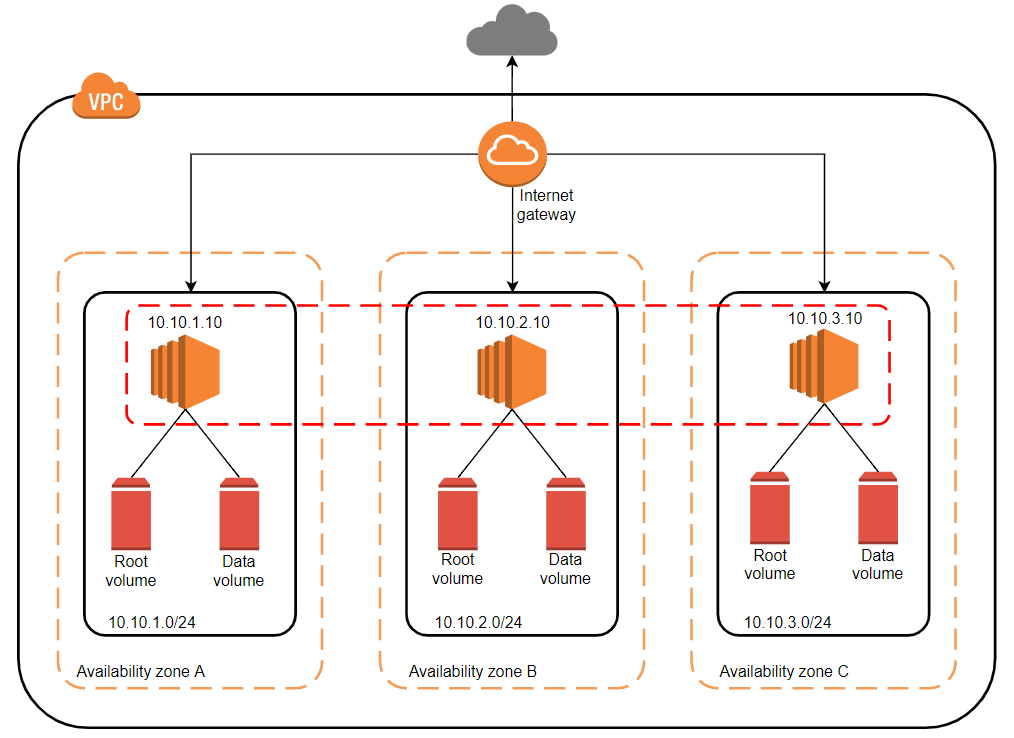
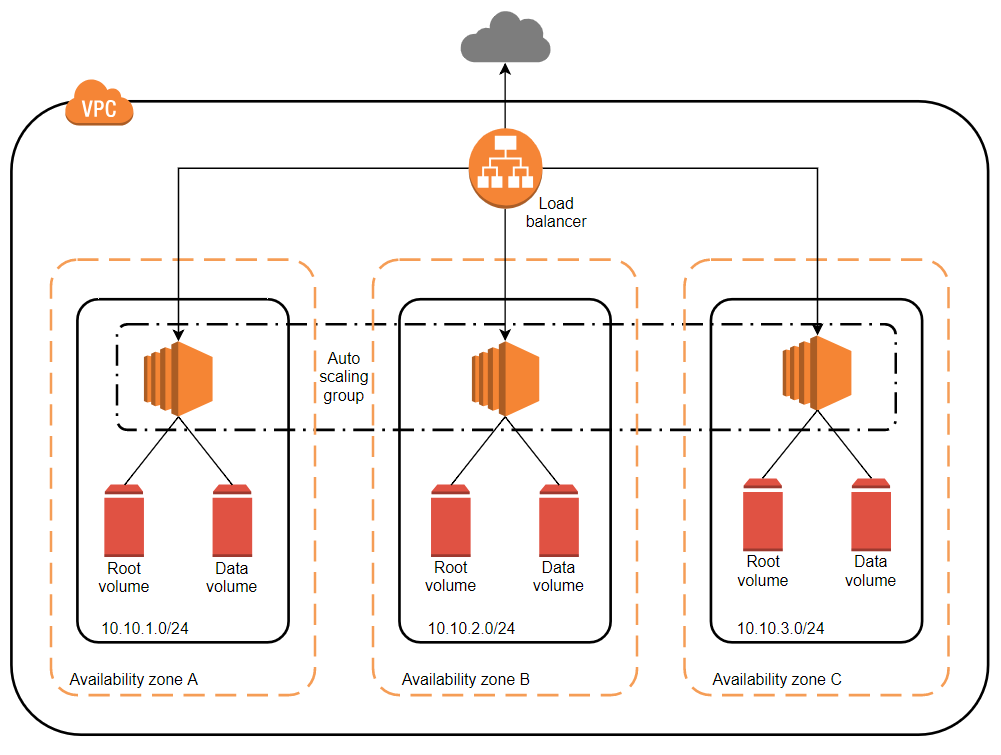
add auto scaling group

diff --git a/README.md b/README.md
@@ -6,6 +6,7 @@
   - A virtual private cloud (VPC) configured with public and private subnets across three Availability Zones. This provides the network infrastructure for your HashiCorp Consul deployment.
   - An internet gateway to provide access to the internet
   - Each EC2 instance has two EBS volume. One volume is root volume, and the other is data volume configured for storing consul data only. That is convinent way for backup and restore consul data.
+  - An auto scaling group to ensure the number of instances in cluster always is as the desired number. You can specify the number of servers to be created as 3, 5, 7, 9.
   - Architecture:
   
   ![Consul cluster on AWS](aws-consul-cluster.png "AWS Consul Cluster")
